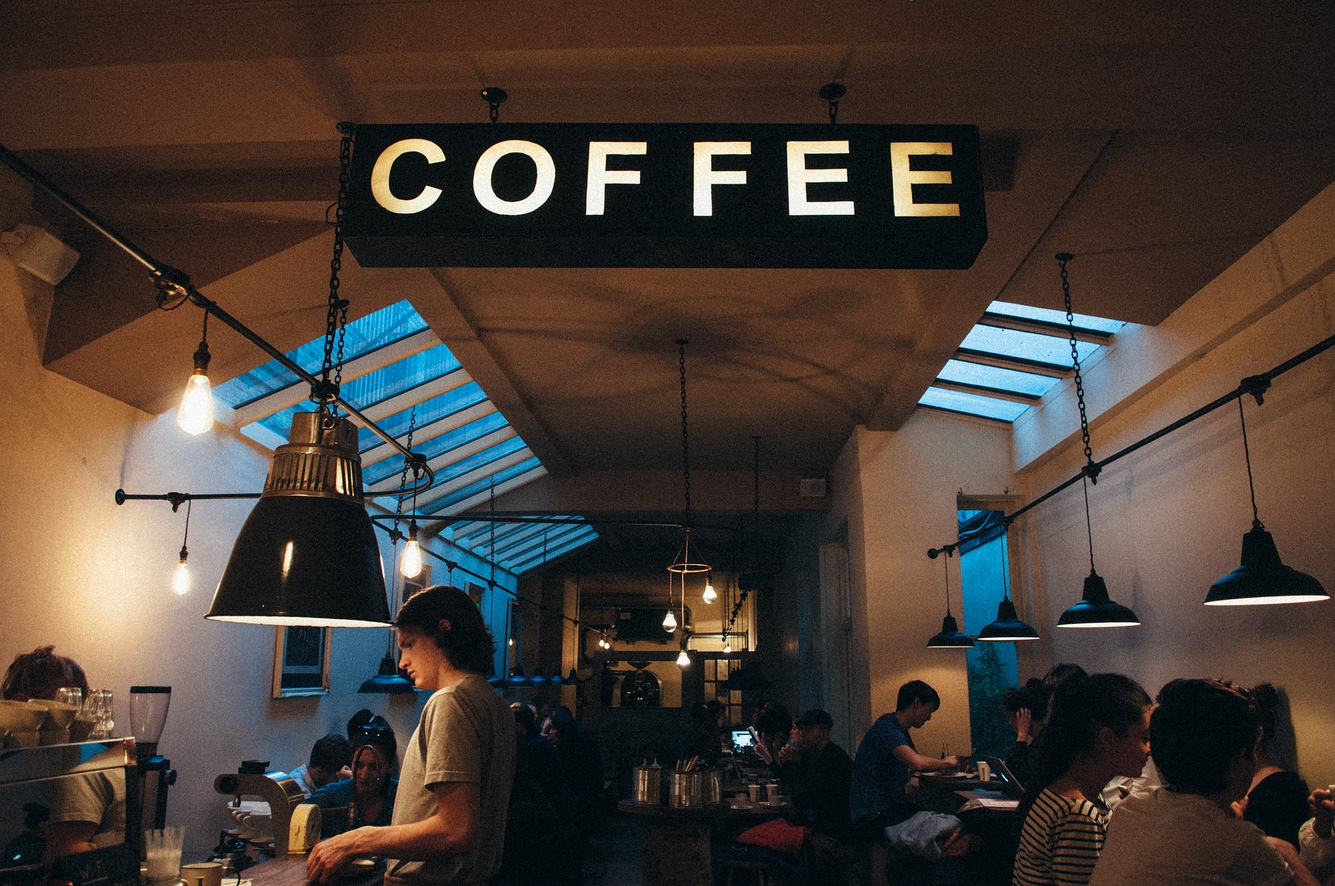
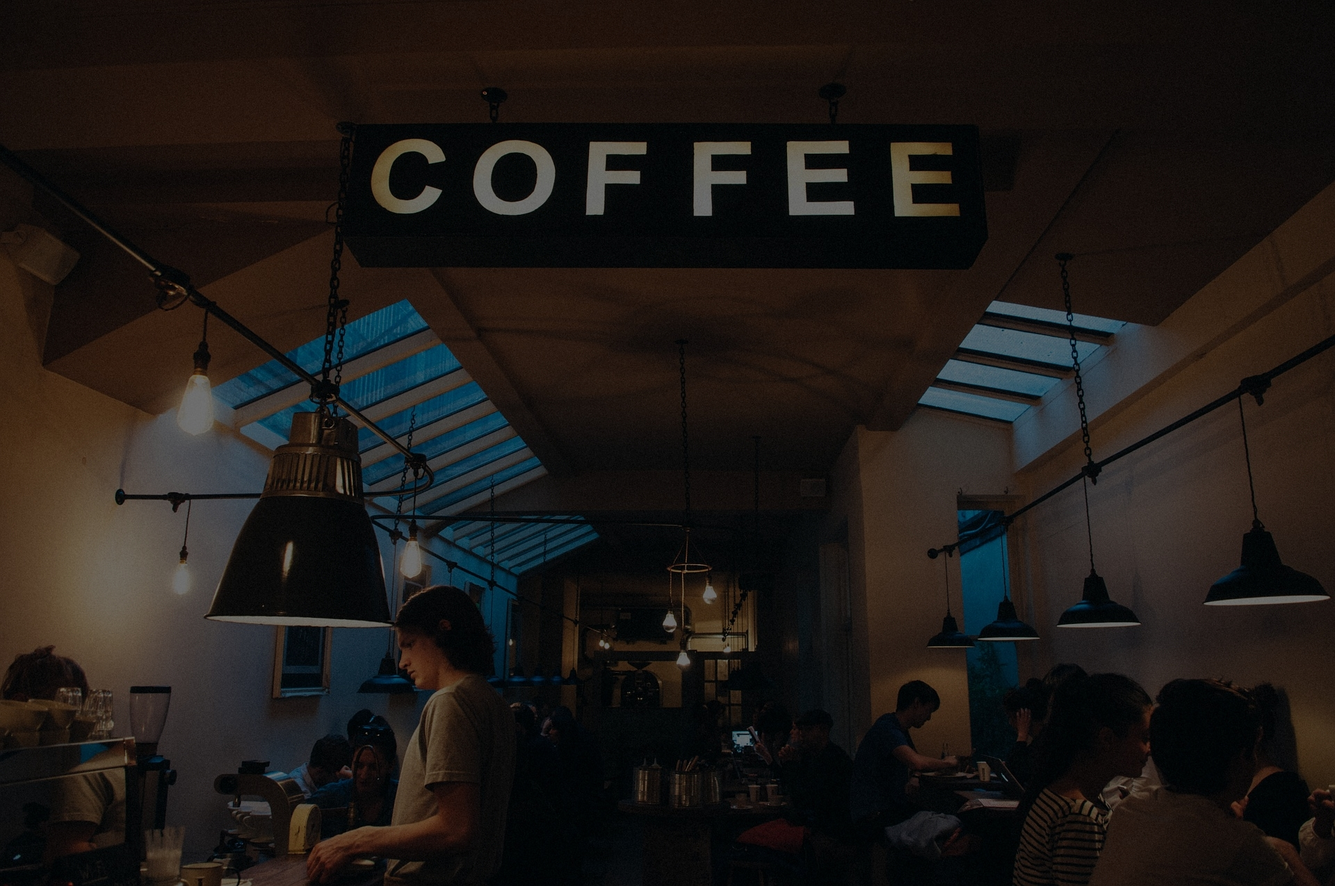
Fixed

diff --git a/index.html b/index.html
@@ -16,24 +16,24 @@
         <main>
             <div class="item-container">
                 <div class="item">
-                    <img src="https://upload.wikimedia.org/wikipedia/commons/thumb/9/9a/Coffee_cup_icon.svg/1200px-Coffee_cup_icon.svg.png"/>
+                    <img src="https://static.wixstatic.com/media/2cd43b_187f85339611414ea970da0b0de845d2~mv2_d_1200_1200_s_2.png/v1/fill/w_320,h_320,fp_0.50_0.50/2cd43b_187f85339611414ea970da0b0de845d2~mv2_d_1200_1200_s_2.png"/>
                     <label>Bagel: </label>
                     <input type="number" id="bagelNumber" placeholder="0"/>
-                    <label>Price: $10.00</label>
+                    <label>Price: $3.00</label>
                 </div>
 
                 <div class="item">
                     <img src="http://www.pngplay.com/wp-content/uploads/2/Tea-Cup-Download-Free-PNG.png"/>
                     <label>Coffee: </label>
                     <input type="number" id="coffeeNumber" placeholder="0"/>
-                    <label>Price: $10.00</label>
+                    <label>Price: $11.00</label>
                 </div>
 
                 <div class="item">
-                    <img src="https://toppng.com/uploads/preview/delicious-bagel-11528333718pyy4dpdgpb.png"/>
+                    <img src="https://upload.wikimedia.org/wikipedia/commons/thumb/9/9a/Coffee_cup_icon.svg/1200px-Coffee_cup_icon.svg.png"/>
                     <label>Tea: </label>
                     <input type="number" id="teaNumber" placeholder="0"/>
-                    <label>Price: $10.00</label>
+                    <label>Price: $7.00</label>
                 </div>
             </div>
 
@@ -42,8 +42,11 @@
             </div>
         </main>
     
-        <footer>
-            <p>TEST</p>
+        <footer class="item-container">
+            <h5>email:bryansbeanshop@gmail.com</h5>
+            <h5>website:bryansbeanshop.com</h5>
+            <h5>124 bryan street</h5>
+            <h5>Johnstown Pa 15904</h5>
         </footer>
     </div>
 

diff --git a/style.css b/style.css
@@ -1,5 +1,9 @@
 @import url('https://fonts.googleapis.com/css2?family=Lexend&display=swap');
 
+input {
+    color: black;
+}
+
 img {
     width: 200px;
     height: 200px;
@@ -93,6 +97,7 @@ img {
     * {
         box-sizing: border-box;
         font-family: 'Lexend', sans-serif;
+        color: white;
     }
     
     html, body {
@@ -102,11 +107,19 @@ img {
         padding: 0px;
     }
 
+    body {
+        background-image: url('background.jpg');
+        background-size: cover;
+        background-position: center;
+        background-repeat: no-repeat;
+    }
+
     .container {
         display: flex;
         flex-direction: column;
         align-items: center;
         justify-content: center;
+        margin-top: 100px;
     }
 
     .item-container {

diff --git a/app.js b/app.js
@@ -39,7 +39,7 @@ bagelNumber.addEventListener('change', e => {
 });
 
 function updatePrice() {
-    let totalAmount = (coffeeAmount * 5.00) + (teaAmount * 2.00) + (bagelAmount * 10.00);
+    let totalAmount = (coffeeAmount * 11.00) + (teaAmount * 7.00) + (bagelAmount * 3.00);
     price.textContent = "Price: $" + totalAmount;
 }
 
